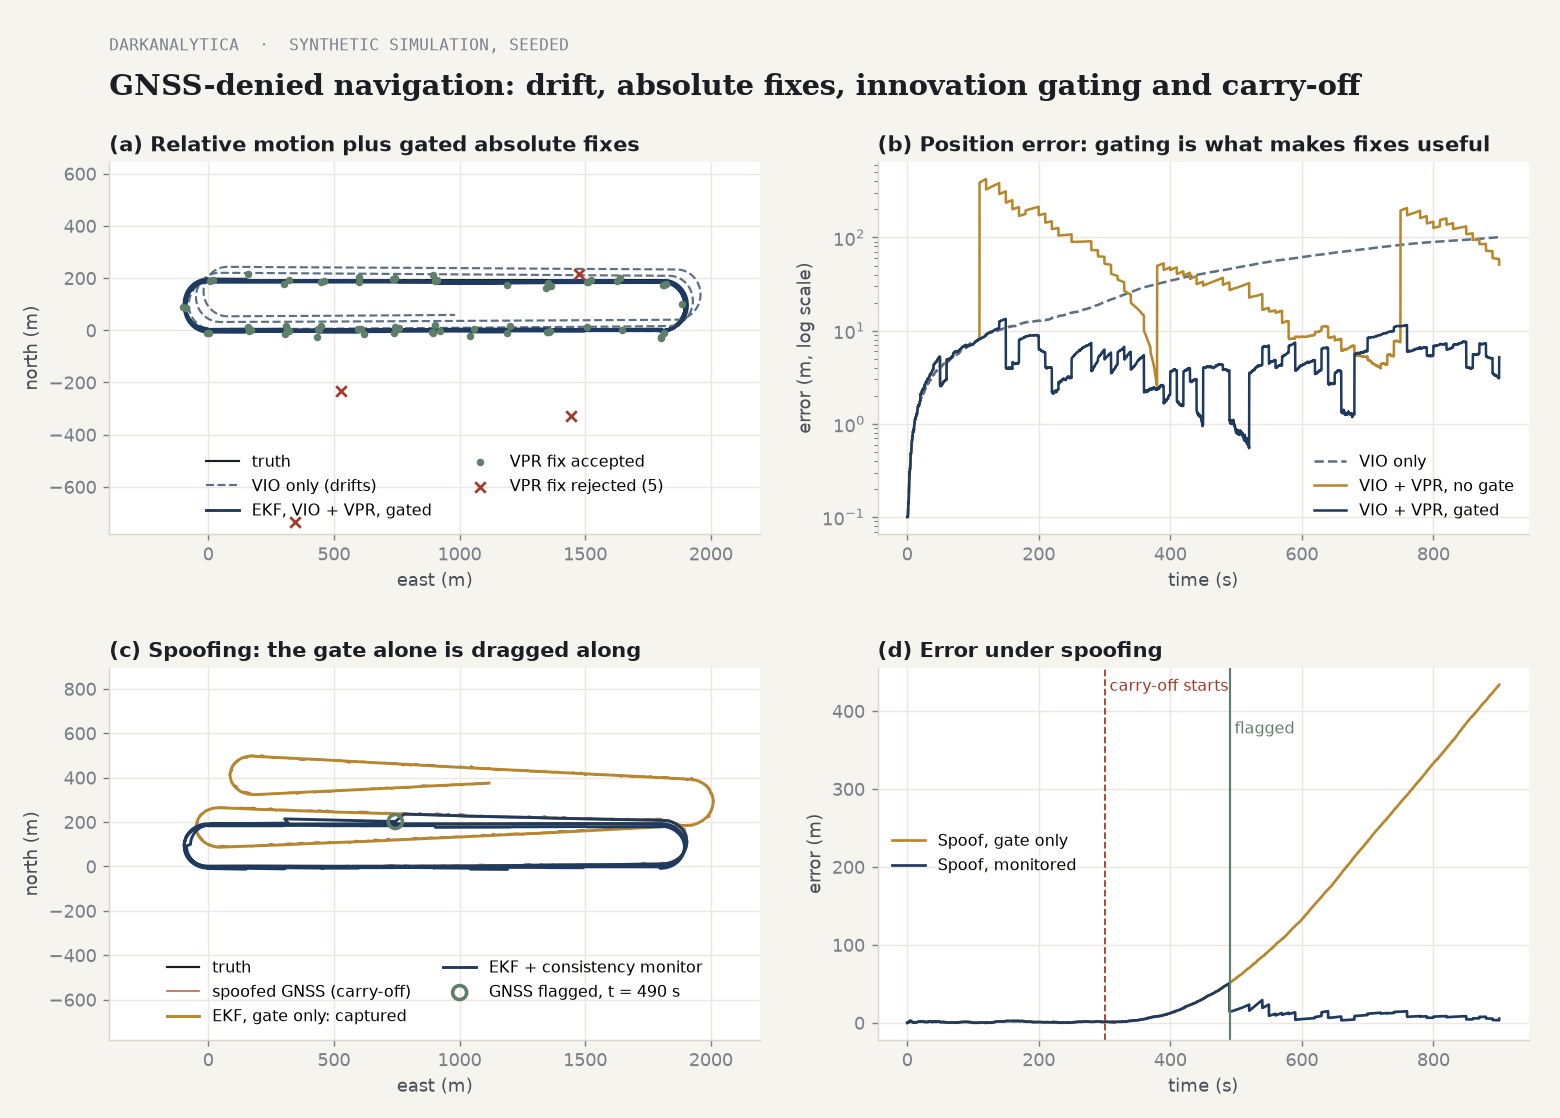
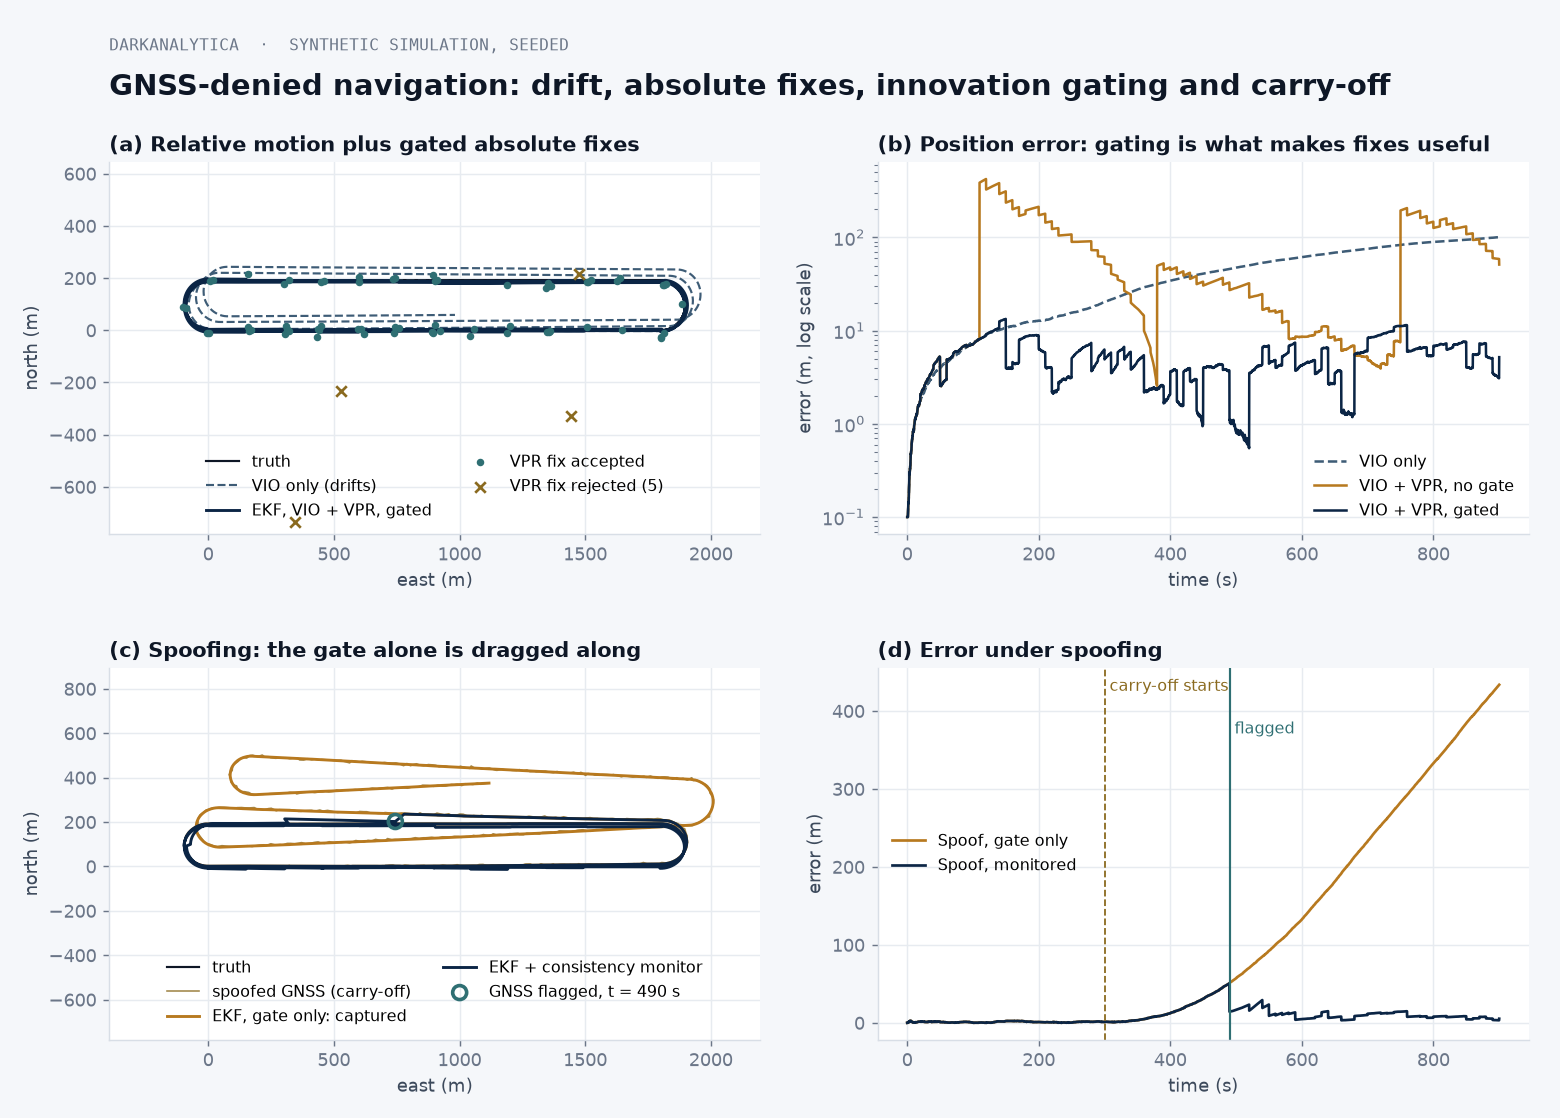
Restyle visuals to design system v2
Cool neutral page, navy/steel strokes, brass as the single accent,
teal-grey for confirmed, amber for uncertainty, IBM Plex Sans titles.
Content and animation unchanged; generated images re-rendered.

diff --git a/gnssdenied/demo.py b/gnssdenied/demo.py
@@ -15,9 +15,9 @@ from .metrics import Summary
 from .sim import Config, standard_scenarios
 
 PALETTE = {
-    "paper": "#F6F4EF", "surface": "#FFFFFF", "line": "#DAD6CC", "ink": "#1B1F24", "ink2": "#4A5058",
-    "ink3": "#7A8088", "navy": "#1F3A5F", "steel": "#5B7083", "signal": "#A33A2B", "ochre": "#B8872B",
-    "sage": "#5E7F68",
+    "page": "#F5F7FA", "surface": "#FFFFFF", "line": "#D8DEE6", "ink": "#0E1726", "ink2": "#3D4A5C",
+    "ink3": "#6B7688", "navy": "#0B2545", "steel": "#3E5C76", "brass": "#8A6A1F", "amber": "#B7791F",
+    "teal": "#2F6F73",
 }
 
 
@@ -99,11 +99,11 @@ def write_png(sc: dict, out: str, spoof_start_s: float) -> str:
         "axes.titleweight": "semibold", "axes.titlecolor": c["ink"], "axes.titlelocation": "left",
         "legend.frameon": False, "legend.fontsize": 9,
     })
-    fig, axes = plt.subplots(2, 2, figsize=(12, 8.6), facecolor=c["paper"])
+    fig, axes = plt.subplots(2, 2, figsize=(12, 8.6), facecolor=c["page"])
     fig.subplots_adjust(left=0.07, right=0.98, top=0.855, bottom=0.07, hspace=0.36, wspace=0.18)
     for ax in axes.flat:
         ax.set_facecolor(c["surface"])
-        ax.grid(color="#ECE8E0", linewidth=0.8)
+        ax.grid(color="#E7EBF0", linewidth=0.8)
         ax.set_axisbelow(True)
         for s in ("top", "right"):
             ax.spines[s].set_visible(False)
@@ -125,9 +125,9 @@ def write_png(sc: dict, out: str, spoof_start_s: float) -> str:
     acc = [(x[1], x[2]) for x in g.vpr_log if x[3]]
     rej = [(x[1], x[2]) for x in g.vpr_log if not x[3]]
     if acc:
-        ax.scatter(*zip(*acc), s=10, color=c["sage"], zorder=3, label="VPR fix accepted")
+        ax.scatter(*zip(*acc), s=10, color=c["teal"], zorder=3, label="VPR fix accepted")
     if rej:
-        ax.scatter(*zip(*rej), s=34, marker="x", color=c["signal"], zorder=4, label=f"VPR fix rejected ({len(rej)})")
+        ax.scatter(*zip(*rej), s=34, marker="x", color=c["brass"], zorder=4, label=f"VPR fix rejected ({len(rej)})")
     ax.set_xlim(*xlim)
     ax.set_ylim(*ylim)
     ax.set_title("(a) Relative motion plus gated absolute fixes")
@@ -136,7 +136,7 @@ def write_png(sc: dict, out: str, spoof_start_s: float) -> str:
     ax.legend(loc="lower center", ncol=2)
 
     ax = axes[0, 1]
-    for key, col, ls in (("vio_only", c["steel"], "--"), ("vpr_no_gate", c["ochre"], "-"), ("vpr_gated", c["navy"], "-")):
+    for key, col, ls in (("vio_only", c["steel"], "--"), ("vpr_no_gate", c["amber"], "-"), ("vpr_gated", c["navy"], "-")):
         ax.plot(t, [max(e, 0.1) for e in sc[key].errors()], color=col, lw=1.4, ls=ls, label=sc[key].name)
     ax.set_yscale("log")
     ax.set_title("(b) Position error: gating is what makes fixes useful")
@@ -149,12 +149,12 @@ def write_png(sc: dict, out: str, spoof_start_s: float) -> str:
     ax.plot(tx, ty, color=c["ink"], lw=1.2, label="truth")
     sp = [(x[1], x[2]) for x in n.gnss_log if x[4]]
     if sp:
-        ax.plot(*zip(*sp), color=c["signal"], lw=0.9, alpha=0.8, label="spoofed GNSS (carry-off)")
-    ax.plot(*zip(*n.est), color=c["ochre"], lw=1.6, label="EKF, gate only: captured")
+        ax.plot(*zip(*sp), color=c["brass"], lw=0.9, alpha=0.8, label="spoofed GNSS (carry-off)")
+    ax.plot(*zip(*n.est), color=c["amber"], lw=1.6, label="EKF, gate only: captured")
     ax.plot(*zip(*m.est), color=c["navy"], lw=1.6, label="EKF + consistency monitor")
     if m.detection_time_s is not None:
         i = int(round(m.detection_time_s / m.cfg.dt_s))
-        ax.scatter([m.est[i][0]], [m.est[i][1]], s=60, facecolor="none", edgecolor=c["sage"], lw=2, zorder=5,
+        ax.scatter([m.est[i][0]], [m.est[i][1]], s=60, facecolor="none", edgecolor=c["teal"], lw=2, zorder=5,
                    label=f"GNSS flagged, t = {m.detection_time_s:.0f} s")
     ax.set_xlim(*xlim)
     ax.set_ylim(*ylim)
@@ -165,13 +165,13 @@ def write_png(sc: dict, out: str, spoof_start_s: float) -> str:
     ax.legend(loc="lower center", ncol=2)
 
     ax = axes[1, 1]
-    ax.plot(t, n.errors(), color=c["ochre"], lw=1.5, label=n.name)
+    ax.plot(t, n.errors(), color=c["amber"], lw=1.5, label=n.name)
     ax.plot(t, m.errors(), color=c["navy"], lw=1.5, label=m.name)
-    ax.axvline(spoof_start_s, color=c["signal"], ls="--", lw=1)
-    ax.text(spoof_start_s, ax.get_ylim()[1] * 0.97, " carry-off starts", color=c["signal"], va="top", fontsize=9)
+    ax.axvline(spoof_start_s, color=c["brass"], ls="--", lw=1)
+    ax.text(spoof_start_s, ax.get_ylim()[1] * 0.97, " carry-off starts", color=c["brass"], va="top", fontsize=9)
     if m.detection_time_s is not None:
-        ax.axvline(m.detection_time_s, color=c["sage"], lw=1.2)
-        ax.text(m.detection_time_s, ax.get_ylim()[1] * 0.85, " flagged", color=c["sage"], va="top", fontsize=9)
+        ax.axvline(m.detection_time_s, color=c["teal"], lw=1.2)
+        ax.text(m.detection_time_s, ax.get_ylim()[1] * 0.85, " flagged", color=c["teal"], va="top", fontsize=9)
     ax.set_title("(d) Error under spoofing")
     ax.set_xlabel("time (s)")
     ax.set_ylabel("error (m)")
@@ -180,10 +180,10 @@ def write_png(sc: dict, out: str, spoof_start_s: float) -> str:
     fig.text(0.07, 0.955, "DARKANALYTICA  ·  SYNTHETIC SIMULATION, SEEDED", color=c["ink3"], fontsize=9,
              family=["IBM Plex Mono", "DejaVu Sans Mono", "monospace"])
     fig.text(0.07, 0.915, "GNSS-denied navigation: drift, absolute fixes, innovation gating and carry-off",
-             color=c["ink"], fontsize=16, weight="semibold", family=["Source Serif 4", "DejaVu Serif", "Georgia", "serif"])
+             color=c["ink"], fontsize=16, weight="semibold", family=["IBM Plex Sans", "DejaVu Sans", "Arial", "sans-serif"])
     os.makedirs(out, exist_ok=True)
     path = os.path.join(out, "gnssdenied_demo.png")
-    fig.savefig(path, dpi=130, facecolor=c["paper"])
+    fig.savefig(path, dpi=130, facecolor=c["page"])
     plt.close(fig)
     return path
 

diff --git a/README.md b/README.md
@@ -1,9 +1,9 @@
 <p align="center"><img src="assets/banner.svg" alt="GNSS-Denied Navigation Primer" width="100%"></p>
 
 [![tests](https://github.com/darkanalytica1/gnss-denied-navigation-primer/actions/workflows/tests.yml/badge.svg)](https://github.com/darkanalytica1/gnss-denied-navigation-primer/actions/workflows/tests.yml)
-![python](https://img.shields.io/badge/python-3.9%2B-1F3A5F)
-![dependencies](https://img.shields.io/badge/runtime%20dependencies-none-5E7F68)
-![license](https://img.shields.io/badge/license-MIT-7A8088)
+![python](https://img.shields.io/badge/python-3.9%2B-0B2545)
+![dependencies](https://img.shields.io/badge/runtime%20dependencies-none-2F6F73)
+![license](https://img.shields.io/badge/license-MIT-6B7688)
 
 ## What this is
 
